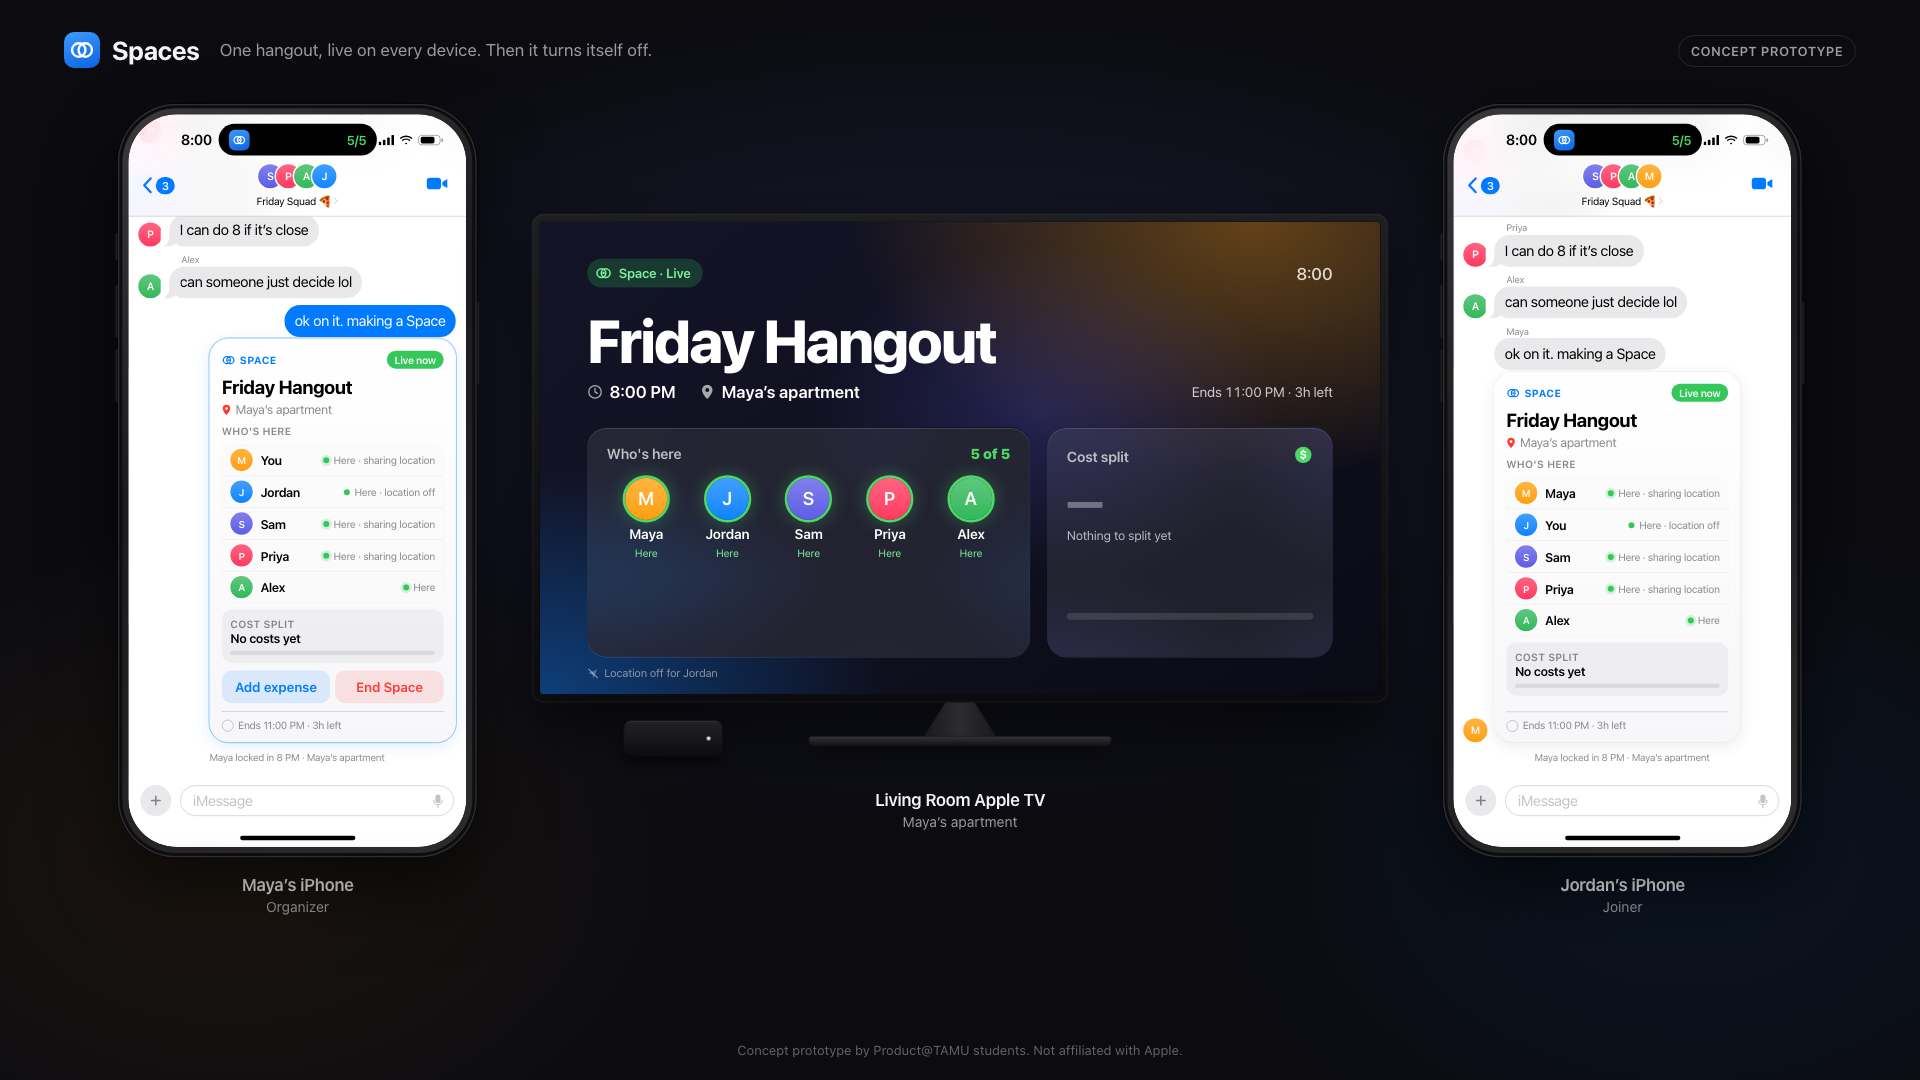
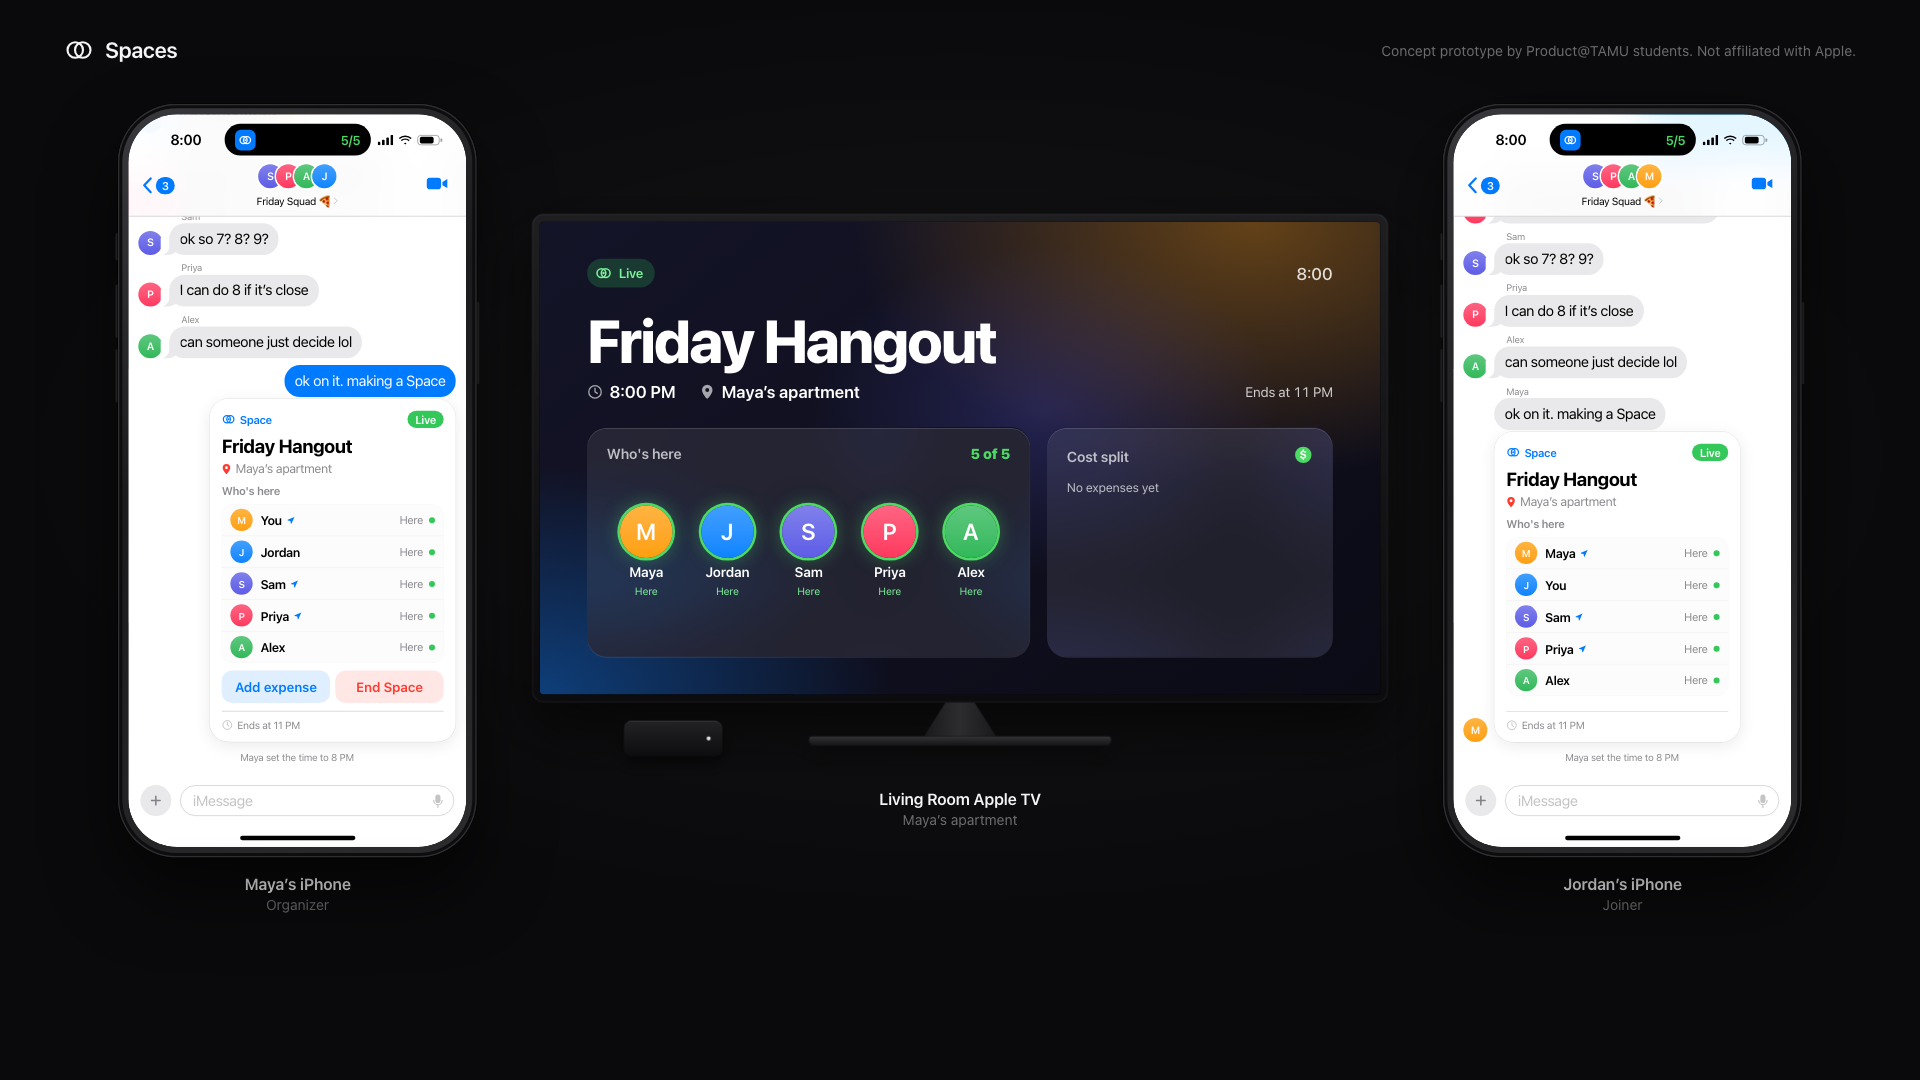
Update README and step 4 screenshot to match the current demo
Document the guided-only flow, intro and outro cards, step bar, autoplay
timing, all URL parameters, and 1-6 step numbering. Drop the
patricksemler.dev/spaces link and recapture the README screenshot.

diff --git a/README.md b/README.md
@@ -1,47 +1,70 @@
 # Spaces: interactive prototype
 
-**Live:** https://spaces.patricksemler.dev (also https://patricksemler.dev/spaces/)
+**Live:** https://spaces.patricksemler.dev
 
 Spaces is a temporary Space that starts in the group chat, so a friend group can plan and run one hangout across their Apple devices. When the hangout ends, it turns itself off.
 
-This prototype shows three devices at once: Maya's iPhone (organizer), Jordan's iPhone (joiner), and the Apple TV in Maya's apartment. All three run on **one shared state store**, so whatever happens on one device shows up on the others in the same frame. That's the point we want judges to see: Spaces is **live and cross-device**. It isn't a static invite.
+This prototype shows three devices at once: Maya's iPhone (organizer), Jordan's iPhone (joiner), and the Living Room Apple TV in Maya's apartment. All three run on **one shared state store**, so whatever happens on one device shows up on the others in the same frame. That's the point we want judges to see: Spaces is **live and cross-device**. It isn't a static invite.
 
-![Beat 3: the Space goes live](screenshots/beat-3-live.png)
+![Step 4: the Space goes live](screenshots/beat-3-live.png)
 
 ## How to use it
-- **Guided** (default): press **→** or **Next** to step through 6 beats. Each beat plays its taps for you, and a soft finger ripple shows where the tap lands.
-- **Intro**: a fresh open holds on a title card until you press **Play demo** (or **Space** / **→**). Links with `?beat=` skip it.
-- **Outro**: after the last beat, a closing card fades in with **Replay** and **Close**. **Esc** dismisses it.
-- **Restart** (or **R**) goes back to the intro card. The devices are driven by the beats only; tapping them does nothing.
-- **On a phone**: you see one device at a time. Use the Maya / Jordan / TV switcher. It also follows whichever device is being tapped.
+The demo is **guided only**. The steps drive every device, and tapping or typing on the devices themselves does nothing.
+
+- **Intro**: a fresh open holds on a title card. Press **Play demo** (or **Space** / **Enter** / **→**) to start.
+- **Autoplay** is on once the demo starts. Each step plays its taps and typing, a soft finger ripple shows where each tap lands, and the next step starts 3 seconds after the last one finishes. Press **Space** or the play/pause button to pause and step through by hand.
+- **Step bar**: back, play/pause, and next on the left; six numbered step dots in the middle (click one to jump there); **Restart** and a keyboard shortcuts panel on the right.
+- Going **forward** one step glides from the current state. Going **back** or jumping cuts straight to that step.
+- **Outro**: after the last step, a closing card fades in with **Replay** (runs the demo again from step 1) and **Close**.
+- **Restart** (or **R**) goes back to the intro card.
+- **On a phone** (or any window under 900 px wide): you see one device at a time. Use the Maya / Jordan / TV switcher. It also follows whichever device is being tapped.
 
 | Key | Action |
 |---|---|
-| ← / → | Previous / next beat |
-| Space | Pause or resume autoplay (on by default once the demo is started; add `?autoplay=0` to step through by hand) |
-| 1–6 | Jump to a beat |
-| H | Hide controls and captions (for clean screen recording) |
+| → | Next step (starts the demo from the intro card) |
+| ← | Previous step, shown in its finished state |
+| Space | Start from the intro card; after that, pause or resume autoplay |
+| 1–6 | Jump to a step and play it |
+| H | Hide the controls and captions (for clean screen recording) |
 | R | Restart from the intro card |
+| Esc | Close the intro, outro, or shortcuts panel |
 
-URL parameters: `?beat=3` opens a beat and plays it, `&static=1` jumps straight to the beat's end state, `&clean=1` hides the controls, and `&autoplay=0` starts paused.
+**URL parameters** (`beat` counts from 0, so `?beat=3` is step 4):
 
-## Beats
-| # | Beat | PRD requirements |
-|---|---|---|
-| 0 | Today: the plan stalls in the group chat | Problem |
-| 1 | Maya creates a Space from the Messages `+` menu | FR-01 |
-| 2 | One-tap join, live time votes ("4 of 5 free at 8 PM"), lock the time | FR-02, FR-03 |
-| 3 | 8 PM: Dynamic Island, Lock Screen Live Activity, and the TV board wake up together. Jordan declines location, which is off by default | FR-04, FR-06, FR-09, FR-10 |
-| 4 | Pizza $40 → $8 each on every screen. Jordan pays back with an Apple Pay–style sheet | FR-05 |
-| 5 | Maya ends the Space. Sharing stops, the TV goes back to Home, and a "Keep plan?" summary appears | FR-07 |
+| Parameter | Effect |
+|---|---|
+| `?beat=3` | Skip the intro, open that step, and play it |
+| `&static=1` | Jump straight to the step's finished state, with no animation or autoplay |
+| `&autoplay=0` | Start paused |
+| `&clean=1` | Hide the controls and captions |
+| `&dev=jordan` | On narrow screens, start on `maya`, `jordan`, or `tv` |
+
+Autoplay is also off by default when the system asks for reduced motion.
+
+For recording the video pitch, see [RECORDING_GUIDE.md](RECORDING_GUIDE.md).
+
+## Steps
+| # | Step | What happens | PRD requirements |
+|---|---|---|---|
+| 1 | Today | The plan stalls in the group chat. Maya says she'll make a Space | Problem |
+| 2 | Create | Maya opens Spaces from the Messages `+` menu, names it "Friday Hangout" at Maya's apartment, offers 7, 8, and 9 PM, turns on cost splitting, and sends it | FR-01 |
+| 3 | Invite | Votes come in live, Jordan joins with one tap and votes, the card shows "4 of 5 free at 8 PM", and Maya locks the time | FR-02, FR-03 |
+| 4 | Live | At 8 PM the Dynamic Island, Lock Screen Live Activity, and TV board wake up together. Friends check in. Jordan declines location (off by default) and taps "here" instead | FR-04, FR-06, FR-08, FR-09 |
+| 5 | Split | Maya adds Pizza, $40. Every phone and the TV show $8 each. Jordan pays back with an Apple Pay–style sheet | FR-05 |
+| 6 | End | Everyone has paid. Maya ends the Space, sharing stops, the TV goes back to Home, and Maya keeps the plan from the "Keep plan?" summary | FR-07 |
 
 ## Tech
-Plain HTML, CSS, and JS using native ES modules. There's no build step and no runtime dependencies, and the repo root is what gets deployed (GitHub Pages).
+Plain HTML, CSS, and JS using native ES modules. There's no build step and no runtime dependencies, and the repo root is what gets deployed (GitHub Pages, with the custom domain in `CNAME`).
 
+- `index.html`: the stage (three device slots, captions, intro and outro cards, step bar, mobile switcher)
 - `js/store.js`: the pure reducer, the selectors (vote counts, per-person split, paid count), and the store
-- `js/devices/*.js`: each device builds its DOM once, and `update(state)` only changes classes and text, so CSS springs animate on every device together
-- `js/beats.js`: the guided scripts. `js/director.js`: the step bar, keyboard shortcuts, autoplay, intro/outro cards, and the mobile switcher
+- `js/devices/iphone.js`, `js/devices/tv.js`: each device builds its DOM once, and `update(state)` only changes classes and text, so CSS springs animate on every device together
+- `js/beats.js`: the six guided scripts (taps, typing, and store actions with timings)
+- `js/director.js`: runs the steps, plus the step bar, keyboard shortcuts, autoplay, intro and outro cards, stage scaling, and the mobile switcher
+- `js/icons.js`, `js/ui.js`: hand-drawn SVG glyphs and small DOM helpers
+- `css/tokens.css`, `css/stage.css`, `css/ios.css`, `css/tvos.css`: design tokens, the stage and controls, and the iPhone and Apple TV screens
 - Motion uses CSS `linear()` spring curves on transform and opacity. `prefers-reduced-motion` is respected.
+- `screenshots/`: one still per step (`beat-0` to `beat-5`)
 
 Run it locally with `python3 -m http.server`, then open http://localhost:8000.
 
